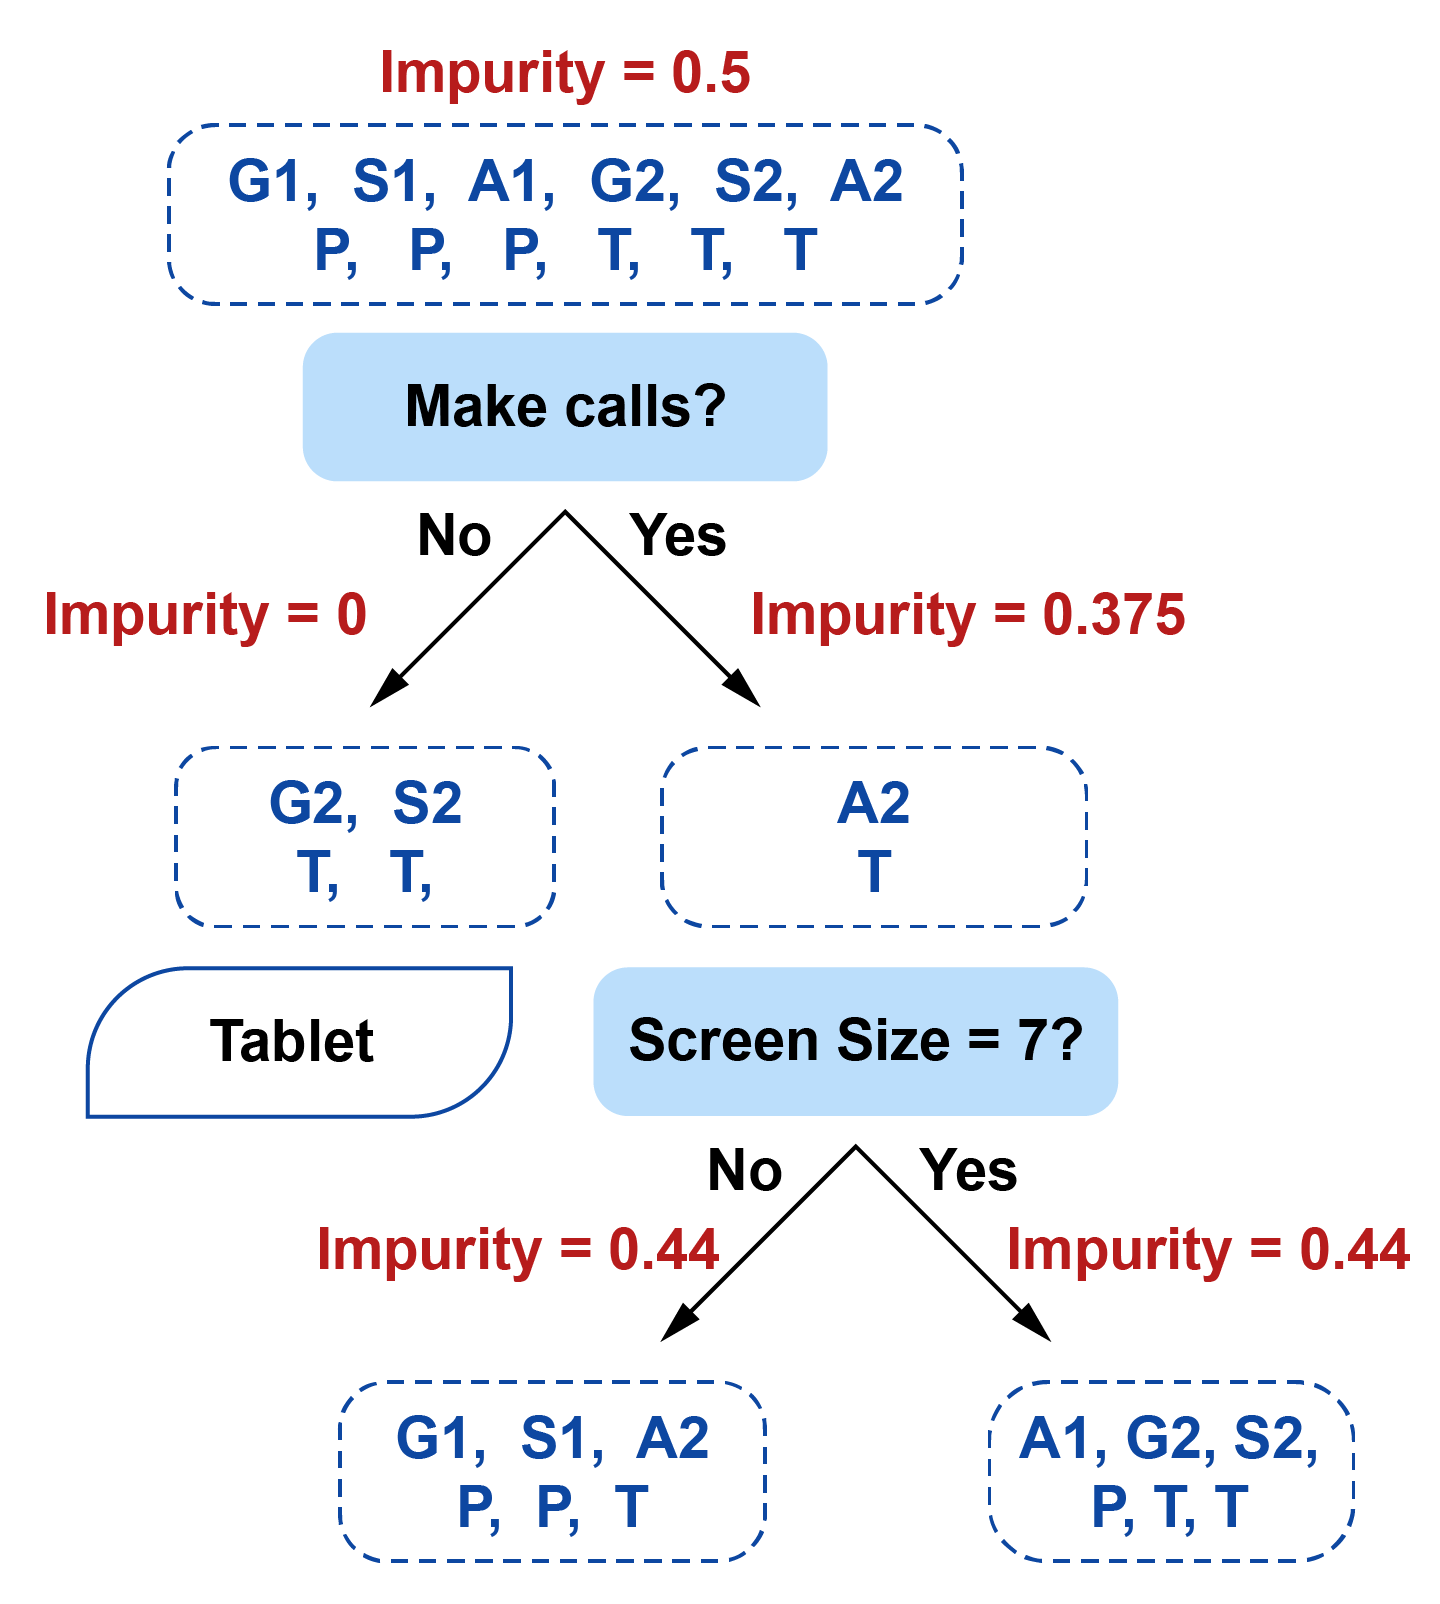
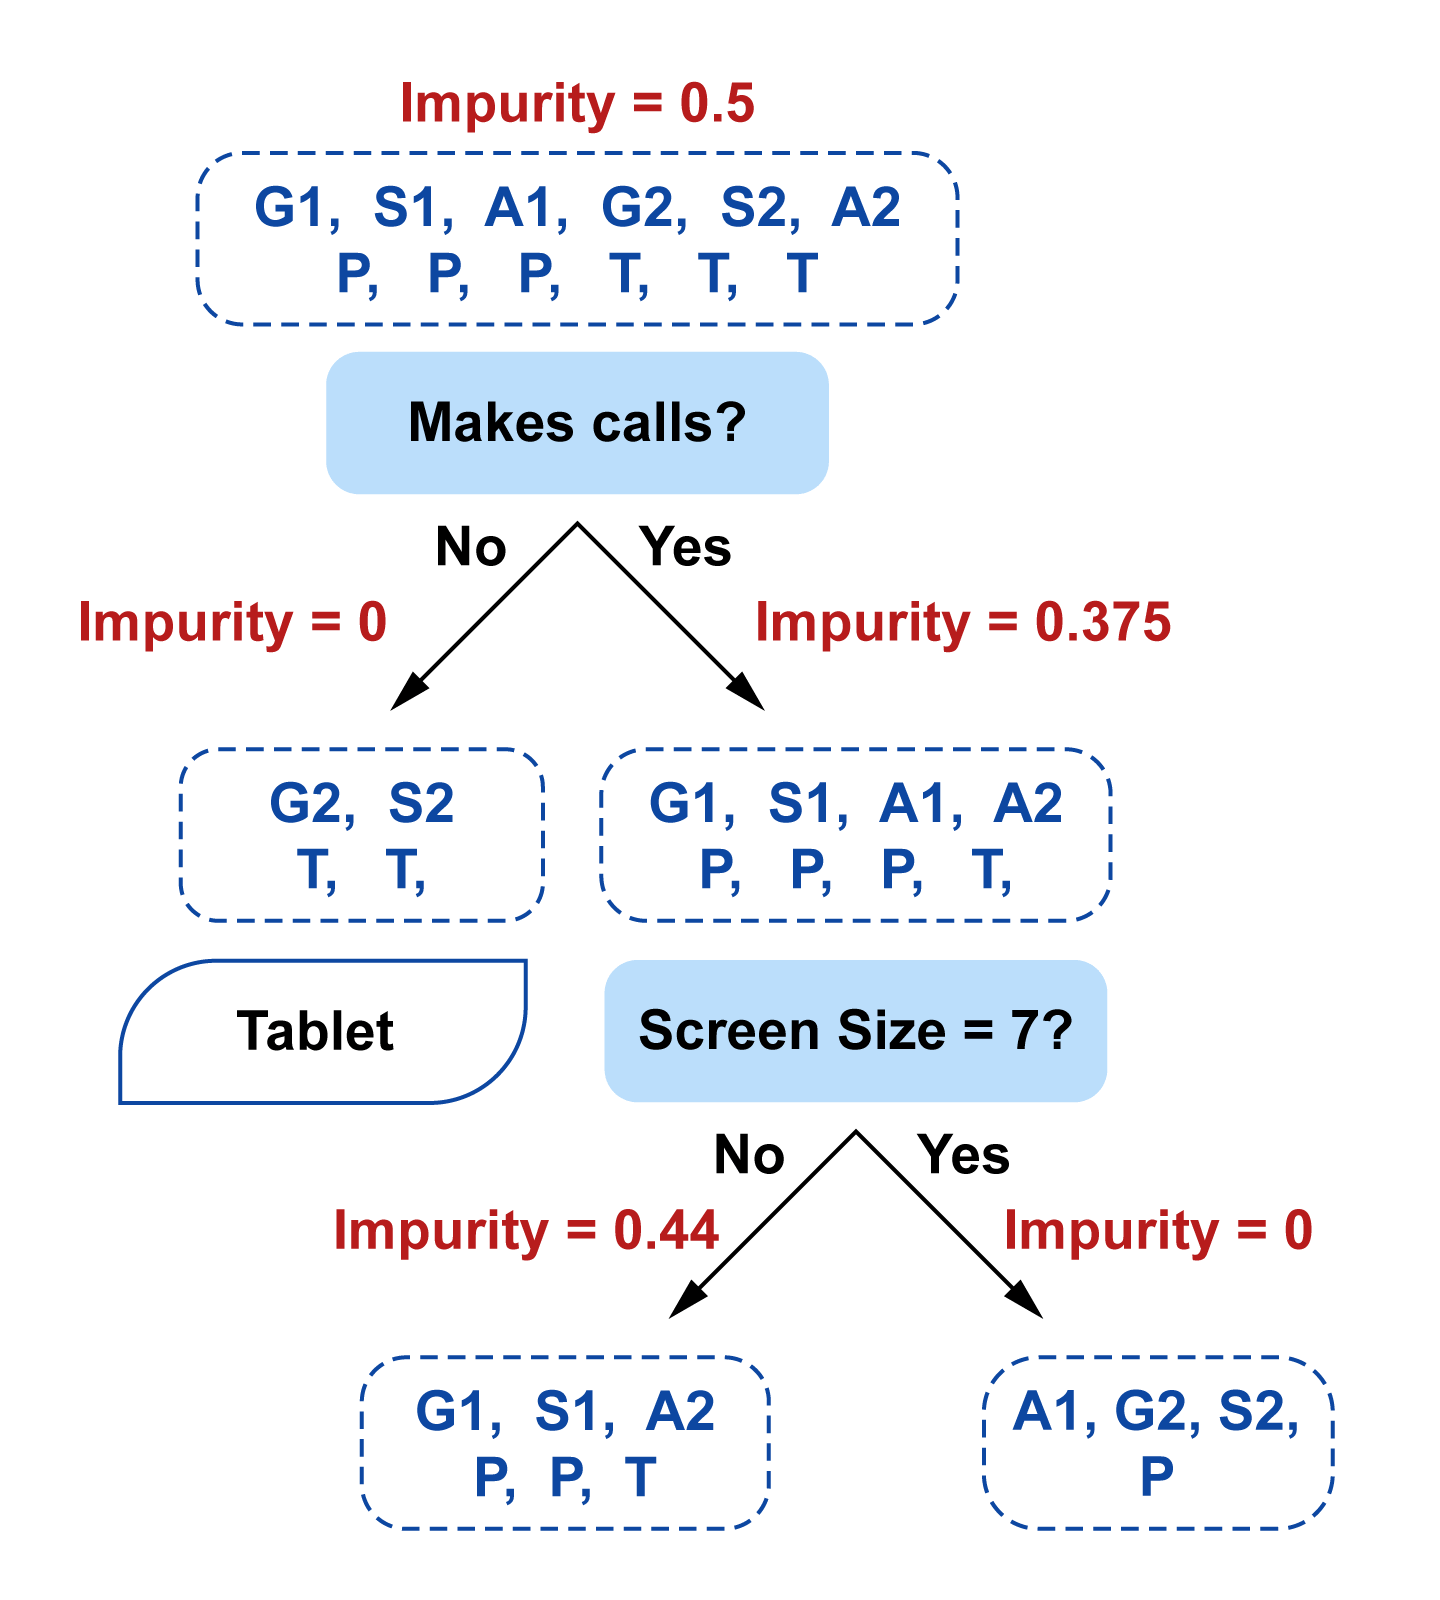
transcripts and typos in unit 2

diff --git a/overrides/main.html b/overrides/main.html
@@ -1,6 +1,6 @@
 {% extends "base.html" %}
 
 {% block announce %}
-    <div id="versionIndicator"><b>Version:</b> 28.10.21.a</div>
+    <div id="versionIndicator"><b>Version:</b> 29.10.21.a</div>
     <img id="customlogo" src="../../../img/logo.svg" alt="University of Leeds logo.">
 {% endblock %}

diff --git a/docs/content/unit2/02_02_DT_training.md b/docs/content/unit2/02_02_DT_training.md
@@ -7,10 +7,16 @@ The following three videos will provide an overview of the material in this sect
 <iframe title="Data Science U2: Decision Tree Part 1" width="450" height="300" frameborder="0" scrolling="auto" marginheight="0" marginwidth="0" src="https://mymedia.leeds.ac.uk/Mediasite/Play/65dd12803fd342c4bbeb689923d654cf1d" allowfullscreen msallowfullscreen
  allow="fullscreen"></iframe>
 
+<a href="https://minerva.leeds.ac.uk/bbcswebdav/xid-21866476_4" target="_blank">Download transcript (PDF).</a>
+
 <iframe title="Data Science U2: Decision Tree Part 2" width="450" height="300" frameborder="0" scrolling="auto" marginheight="0" marginwidth="0" src="https://mymedia.leeds.ac.uk/Mediasite/Play/6a7dd193cb36414083fda5897a350ef31d" allowfullscreen msallowfullscreen
  allow="fullscreen"></iframe>
 
+<a href="https://minerva.leeds.ac.uk/bbcswebdav/xid-22772607_4" target="_blank">Download transcript (PDF).</a>
+
 <iframe title="Data Science U2: Decision Tree Part 3" width="450" height="300" frameborder="0" scrolling="auto" marginheight="0" marginwidth="0" src="https://mymedia.leeds.ac.uk/Mediasite/Play/fe863a77c67c4a6c962ba3f93ff6e9131d" allowfullscreen msallowfullscreen allow="fullscreen"></iframe>
+
+<a href="https://minerva.leeds.ac.uk/bbcswebdav/xid-22734600_4" target="_blank">Download transcript (PDF).</a>
 
 You can download the <a href="https://minerva.leeds.ac.uk/bbcswebdav/xid-18797978_4" target="_blank">slides shown in the videos</a>
 
@@ -508,7 +514,7 @@ Annual income ranges £K | Annual income increment £K | Annual income category
   <figcaption><strong>Figure 2.20.</strong>  Top 10 UK actual annual income in 2018, the increments have reversed Pareto distribution.</figcaption>
 </figure>
 
-As can be seen, the increments take a long tailed (skewed) distribution that is not a Gaussian, but more of a reversed Pareto distribution. This is not surprising as the Pareto distribution has historically been used to describe wealth in society. The 80-29 Pareto principle is related to this distribution but is precisely realised when the alpha value is 1.16. It takes the form:
+As can be seen, the increments take a long tailed (skewed) distribution that is not a Gaussian, but more of a reversed Pareto distribution. This is not surprising as the Pareto distribution has historically been used to describe wealth in society. The 80-20 Pareto principle is related to this distribution but is precisely realised when the alpha value is 1.16. It takes the form:
 
 $$
 \operatorname{Pr}(X>x)=\left\{\begin{array}{c}
@@ -610,7 +616,7 @@ Its behaviour is shown figure 2.25 below.
 Note that we are talking about two classes (events) not two probability distributions. In the case of two probability distributions we use cross-entropy which is outside the scope of this discussion. In general if we have more than $K$ classes, then:
 
 $$
-\text { Entropy }=\sum_{i=1}^{K} p_{i} \log p_{i}
+\text { Entropy }=-\sum_{i=1}^{K} p_{i} \log p_{i}
 $$
 
 ###Comparison of the entropy with Gini Index

diff --git a/docs/content/unit1/01_02_the_data_its_quality_and_its_structure.md b/docs/content/unit1/01_02_the_data_its_quality_and_its_structure.md
@@ -77,7 +77,7 @@ It is worth mentioning here that the data can be structured either in a loose wa
 
 One positive aspect of Excel which contributed to its popularity is that it provides simple ways to see the data along with its visualisation (via charts, graphs, etc.). Having said that, you must differentiate between providing a storage capability for your data and acting on it in terms of processing and visualisation. If visualisation is important in the application, then Tableau provides such capabilities in an excellent way. You will see some examples of data visualisation at the end of this unit.
 
-In the following exercises, you will see some of the most common data management activities in a structured data (database) and a similar activity in a non-structural data. These types of operations are normally done during the data engineering process. The first activity might be harder to set up and is optional, while the second activity is more important and easier to setup.
+In the following exercise, you will see some of the most common data management activities. These types of operations are normally done during the data engineering process. 
 
 !!! success "Important!"
     Below is your first exercise. Before you get started, make sure you have downloaded the zip file containing all the datasets we will be using in this module. You can find this zip file in the Learning Resources area of the Minerva module, or by selecting the link below.
@@ -132,7 +132,9 @@ In this case, the mean is 1.001 and so the bias is 1.001-1=0.001. While the prec
 
 Remember that the standard deviation is the squared root of the variance. Also, since there is a limited set of samples – not the entire population – then it is divided by N-1.
 
-Variance = [(1.015-1.001)^^2^ + (0.990-1.001)^^2^ + (1.013-1.001)^^2^ + (1.001-1.001)^^2^ + (0.986-1.001)^^2^]/(5-1) = [0.000196 + 0.000121 + 0.000144 + 0 + 0.000225]/4 = 0.0001715 hence SD ≈ 0.13
+Variance $=\left[(1.015-1.001)^{\wedge 2}+(0.990-1.001)^{\wedge 2}+(1.013-1.001)^{\wedge 2}+(1.001-1.001)^{\wedge 2}+\right.$
+$\left.(0.986-1.001)^{\wedge 2}\right] /(5-1)=[0.000196+0.000121+0.000144+0+0.000225] / 4=$
+$0.0001715$ hence $\mathrm{SD} \approx 0.013$
 
 ##Summary
 

diff --git a/docs/content/unit2/02_03_DT_vertebrate.md b/docs/content/unit2/02_03_DT_vertebrate.md
@@ -128,6 +128,7 @@ Watch this video to see how we can easily build a decision tree model in RapidMi
 <iframe title="DBuilding a decision tree in RapidMiner" width="450" height="300" frameborder="0" scrolling="auto" marginheight="0" marginwidth="0" src="https://mymedia.leeds.ac.uk/Mediasite/Play/74a17cc9f1914e38b34229bbd4a0c3ac1d" allowfullscreen msallowfullscreen
  allow="fullscreen"></iframe>
 
+<a href="https://minerva.leeds.ac.uk/bbcswebdav/xid-22735112_4" target="_blank">Download transcript (PDF).</a>
 
 !!!abstract "Exercise"
 
@@ -182,7 +183,7 @@ So far we have seen how decision trees work and how they are inducted (trained).
 
 In the above cases, we showed the data and the decision boundary on the left-hand side, and on the right-hand side we showed the corresponding expected decision tree that can express the data concisely. In classification such decision boundaries are crucial in two ways: they help us understand the nature of the data, and they help us to assign a suitable technique to the problem in hand. It is not always possible to represent the data in two-dimensional space, in fact it is rarely the case. However, even when we move to higher space dimension, a similar argument can hold.  
 
-The boundaries are assumed when we constructed the datasets. The boundaries do not exist separately form the dataset, instead they are inferred from the dataset. In the decision trees, the nodes correspond to the condition as usual. These conditions that help us decide the classes of the dataset create their own boundaries.
+The boundaries are assumed when we constructed the datasets. The boundaries do not exist separately from the dataset, instead they are inferred from the dataset. In the decision trees, the nodes correspond to the condition as usual. These conditions that help us decide the classes of the dataset create their own boundaries.
 
 In the first case (Figure 2.32), any point above the boundary is of class 1 and any point below the boundary is from class 2.
 

diff --git a/docs/content/unit2/02_00_classification.md b/docs/content/unit2/02_00_classification.md
@@ -18,7 +18,7 @@
 
 In a classification scenario, we have a supervised learning problem with labels. The labels themselves are a categorical data, i.e. they have a set of confined values, be it numerical or categorical that we can enumerate through. We call these values the classes, and our task is to take an input data point and place it in the area or under one of the classes. This type of task is pervasive in all aspects of data mining, and we will find ourselves facing it in one form or the other in several settings. One distinction we need to make here is between classification and clustering. While classification uses predefined classes with names, clustering is unsupervised learning, in which data points are placed in clusters based on their intrinsic properties and the similarities between them.  
 
-There are numerous techniques for classification, but in this unit we will focus on a simple and widely used technique called decision trees. In later units of this module, and in later modules such Machine Learning, Deep Learning and Text Analytics, you will come across several other techniques, building on the ideas that we develop here and in later units.
+There are numerous techniques for classification, but in this unit we will focus on a simple and widely used technique called decision trees. In later units of this module, and in later modules such as Machine Learning, Deep Learning and Text Analytics, you will come across several other techniques, building on the ideas that we develop here and in later units.
 
 Figure 2.1 shows a schematic representation of a classification model. As it can be seen, the classification model maps an input $x$ with an output $y$. The input is a set of attributes for one record and the output is the predicted class of the record. The record can be any object or entity represented in our dataset as one record.  
 

diff --git a/docs/content/unit2/02_04_measuring_performance.md b/docs/content/unit2/02_04_measuring_performance.md
@@ -22,6 +22,8 @@ In the following video, Abdulrahman talks through a comprehensive example of a d
 " allowfullscreen msallowfullscreen
  allow="fullscreen"></iframe>
 
+<a href="https://minerva.leeds.ac.uk/bbcswebdav/xid-21817781_4" target="_blank">Download transcript (PDF).</a>
+
 ##Measuring the performance of a binary class model
 
 **For a binary class problem, we have two classes that an instant can belong to. It can belong to class C1 or to class C2 but cannot belong to both at the same time. In fact, the question can be posed as whether an instant belongs to a one class of concern or not.**
@@ -473,7 +475,7 @@ $p($ detect $)=\frac{1}{4} p\left(\right.$ detect $\left._{\text {setosa }}\righ
 
 $p($ detect $)=\frac{1}{4} \times 1+\frac{1}{4} \times 0.9375+\frac{1}{2} \times 0.666=0.8177$
 
-This metric shows that the classifier that we trained has less weighted accuracy than the balanced accuracy since we emphasised the detection of the virginica more than other classes and the model did not performed that well on this particular class $\left(\boldsymbol{p}\left(\text { detect }_{\text {virginica }}\right)=0.666\right)$.
+This metric shows that the classifier that we trained has less weighted accuracy than the balanced accuracy since we emphasised the detection of the virginica more than other classes and the model did not perform that well on this particular class $\left(\boldsymbol{p}\left(\text { detect }_{\text {virginica }}\right)=0.666\right)$.
 
 Now, let us try to use the classes’ distribution as the weights for the classes’ detection scores to see where this can lead us. The count that we have is $n=13+16+9=38$ for 'setosa' 'versicolor' 'virginica' classes, respectively. This is not the count of the entire dataset $N=150$ because the above confusion matrix is for a testing set, not the total dataset.
 
